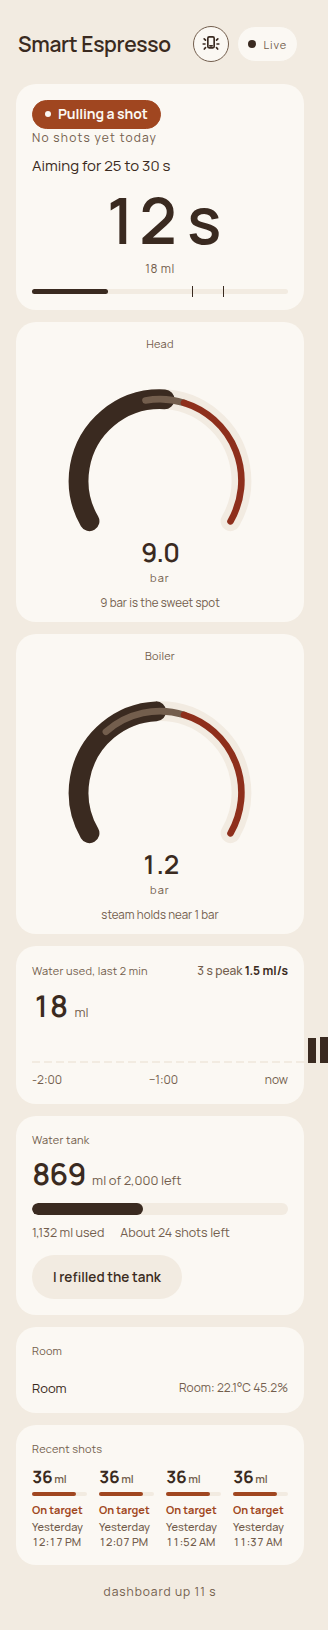
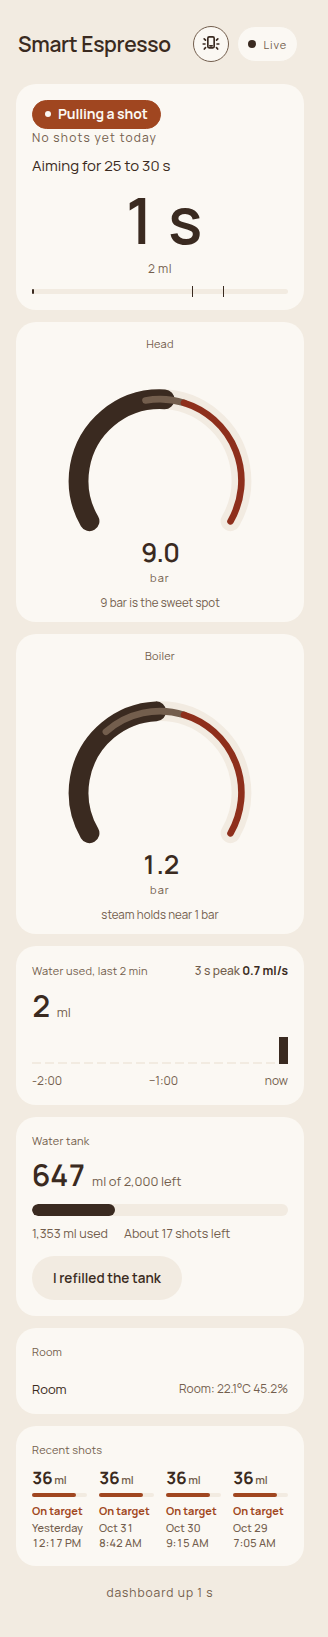
fix: keep AM/PM with the tile time
The date and the time are separate lines. Yesterday and Oct 31 sit
above a nowrap time, so the meridian is never left on its own.
Shell cache is espresso-shell-v79.

diff --git a/smart_espresso/web/static/index.html b/smart_espresso/web/static/index.html
@@ -856,6 +856,8 @@
     min-width: 0;
     font-variant-numeric: tabular-nums;
   }
+  .recent-tile .t-day { display: block; }
+  .recent-tile .t-time { display: block; white-space: nowrap; }
 
   .card-head .all-shots {
     margin: 0;
@@ -1804,7 +1806,17 @@ function paintRecentTiles(tiles) {
 
     const when = document.createElement('span');
     when.className = 't';
-    when.textContent = shotWhen(shot.started_at);
+    const parts = shotWhenParts(shot.started_at);
+    if (parts.day) {
+      const day = document.createElement('span');
+      day.className = 't-day';
+      day.textContent = parts.day;
+      when.append(day);
+    }
+    const time = document.createElement('span');
+    time.className = 't-time';
+    time.textContent = parts.time;
+    when.append(time);
 
     button.append(ml, bar, verdict, when);
     host.appendChild(button);
@@ -1827,17 +1839,22 @@ let selectedShotId = null;
 const shotCache = new Map();
 let shotLoadToken = 0;
 
-function shotWhen(iso) {
+function shotWhenParts(iso) {
   const date = new Date(iso);
-  if (Number.isNaN(date.getTime())) return String(iso || '');
+  if (Number.isNaN(date.getTime())) return { day: '', time: String(iso || '') };
   const time = date.toLocaleTimeString([], { hour: 'numeric', minute: '2-digit' });
   const today = new Date();
-  if (date.toDateString() === today.toDateString()) return time;
+  if (date.toDateString() === today.toDateString()) return { day: '', time: time };
   const yesterday = new Date(today);
   yesterday.setDate(today.getDate() - 1);
-  if (date.toDateString() === yesterday.toDateString()) return `Yesterday ${time}`;
+  if (date.toDateString() === yesterday.toDateString()) return { day: 'Yesterday', time: time };
   const day = date.toLocaleDateString([], { month: 'short', day: 'numeric' });
-  return `${day} ${time}`;
+  return { day: day, time: time };
+}
+
+function shotWhen(iso) {
+  const parts = shotWhenParts(iso);
+  return parts.day ? `${parts.day} ${parts.time}` : parts.time;
 }
 
 function renderHistory(block) {

diff --git a/smart_espresso/web/static/sw.js b/smart_espresso/web/static/sw.js
@@ -2,7 +2,7 @@
 // still opens (slightly stale, clearly marked so by the page itself) when
 // the machine's server hiccups. Sensor data is never cached: /api/* always
 // goes to the network.
-const CACHE = 'espresso-shell-v72';
+const CACHE = 'espresso-shell-v79';
 const SHELL = [
   '/',
   '/dashboard_logic.js',

diff --git a/smart_espresso/test/test_dashboard_logic.py b/smart_espresso/test/test_dashboard_logic.py
@@ -395,6 +395,9 @@ class TestShippedShell:
         when = _css_rule(self.page, ".recent-tile .t")
         assert "white-space: nowrap" not in when
         assert "min-width: 0" in when
+        assert "white-space: nowrap" in _css_rule(self.page, ".recent-tile .t-time")
+        assert "t-day" in self.page
+        assert "shotWhenParts" in self.page
         assert "min-width: 0" in _css_rule(self.page, ".recent-tile")
         bar = _css_rule(self.page, ".recent-bar")
         assert "height: 4px" in bar

diff --git a/smart_espresso/test/test_dashboard_contrast.py b/smart_espresso/test/test_dashboard_contrast.py
@@ -158,7 +158,7 @@ class TestDashboardContrast:
         assert "fonts.googleapis.com" not in self.worker
         assert "fonts.gstatic.com" not in self.worker
         assert "/fonts/manrope.woff2" in self.worker
-        assert "espresso-shell-v72" in self.worker
+        assert "espresso-shell-v79" in self.worker
         font = PAGE.parent / "fonts" / "manrope.woff2"
         assert font.is_file()
         assert font.read_bytes()[:4] == b"wOF2"
